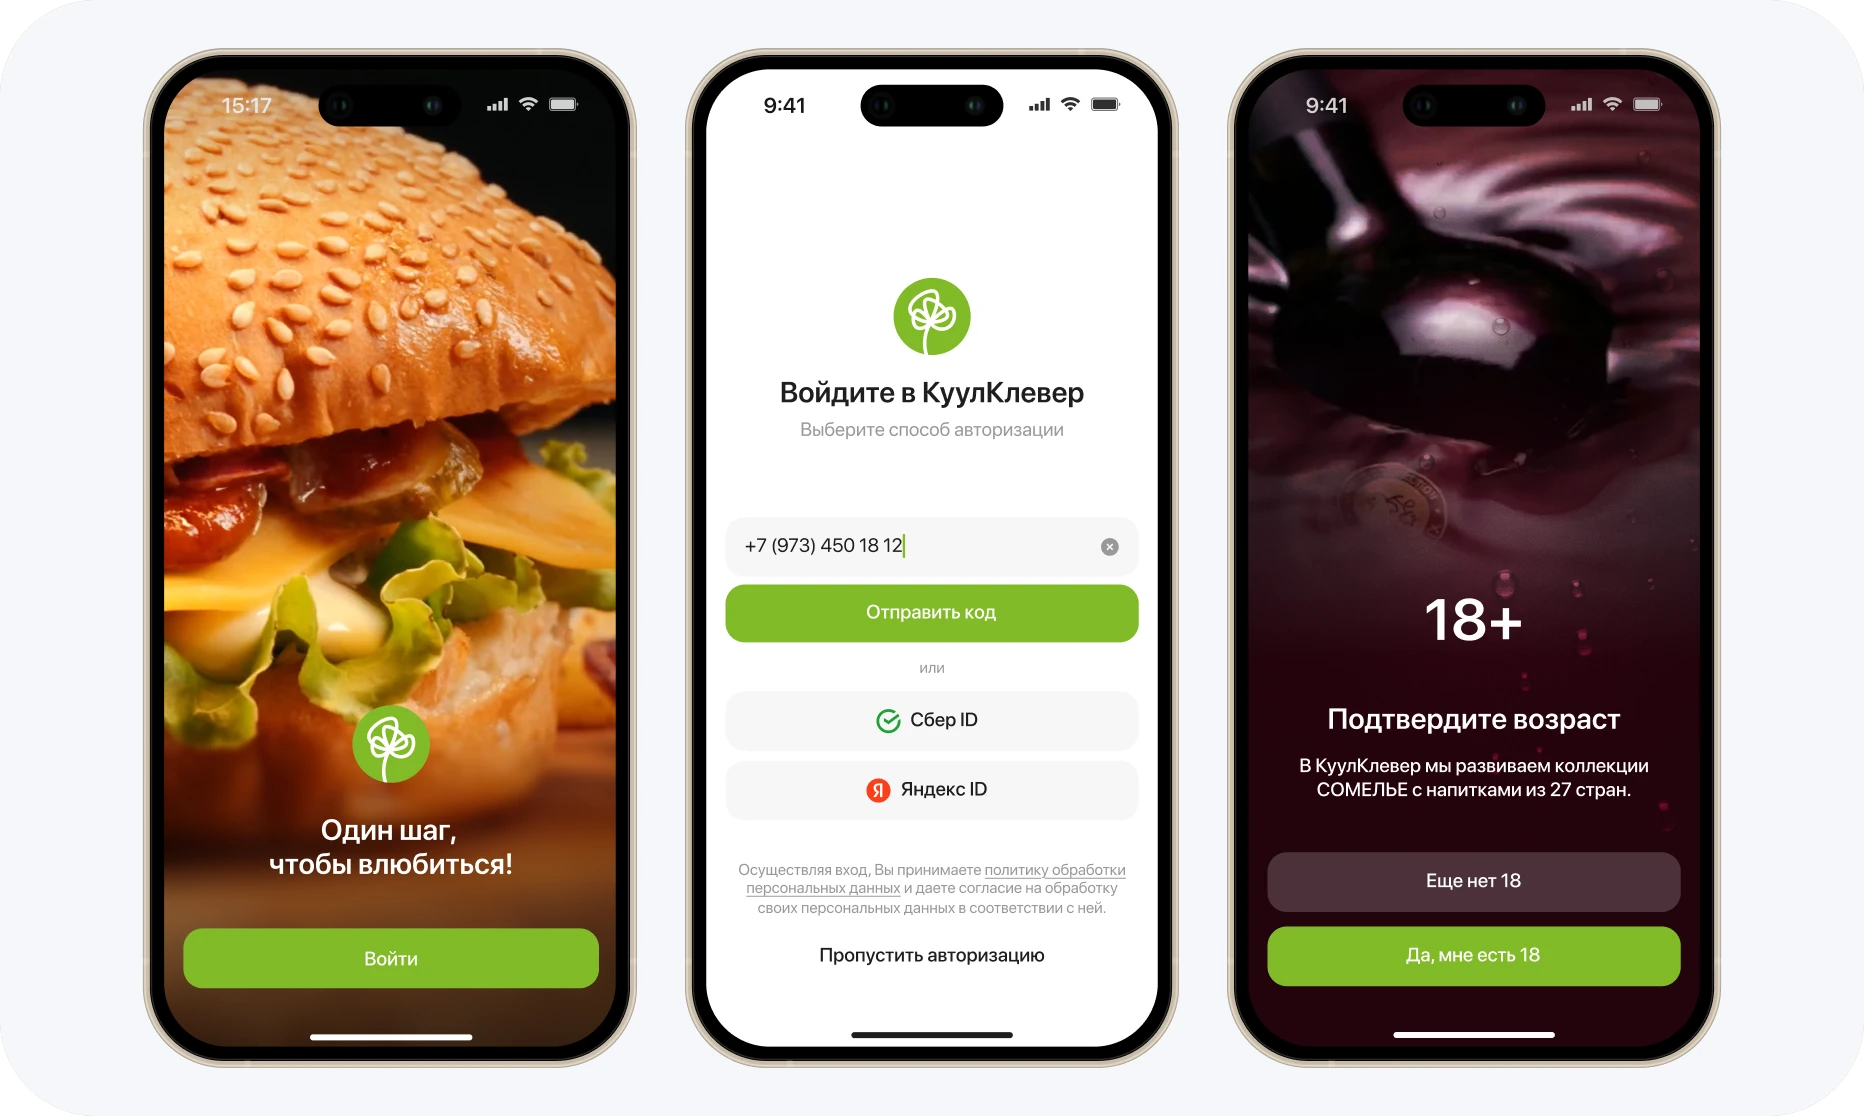
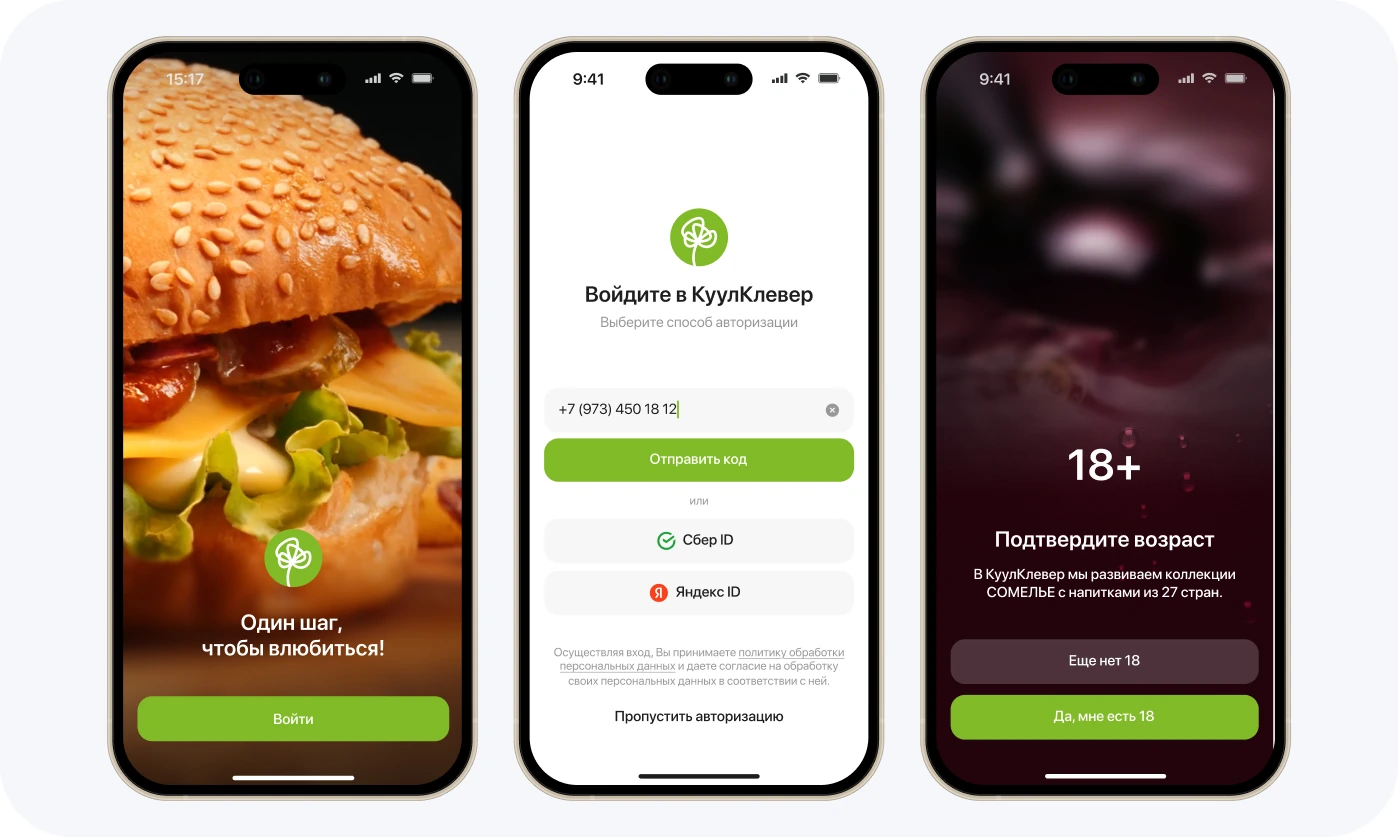
Онбординг: фото-заглушка на обложке, если видео не загрузилось
Claude-Session: https://claude.ai/code/session_01BbzCvaPYQ9pFtYCqfnGTSS

diff --git a/index.html b/index.html
@@ -621,9 +621,10 @@ picture{display:contents}
 /* анимации в кейсах: фото — заглушка, поверх неё подгружается анимация */
 .vshot{position:relative;container-type:inline-size}
 .vshot>picture{display:block}
-.vs{--u:calc(100cqw/932);position:absolute;width:calc(225.8*var(--u));height:calc(488.7*var(--u));top:calc(34.67*var(--u));border-radius:calc(34*var(--u));overflow:hidden;pointer-events:none;color:#fff;
+.vs{--u:calc(100cqw/932);position:absolute;width:calc(225.8*var(--u));height:calc(488.7*var(--u));top:calc(34.67*var(--u));border-radius:calc(34*var(--u));overflow:hidden;pointer-events:none;color:#fff;opacity:0;transition:opacity .4s ease;
   font-family:-apple-system,"SF Pro Display","Golos Text",system-ui,sans-serif;-webkit-font-smoothing:antialiased;isolation:isolate}
 .vs *{position:absolute;margin:0}
+.vs.is-live{opacity:1}
 .vs--welcome{left:calc(82.06*var(--u));background:#2a1a10}
 .vs--gate{left:calc(624.13*var(--u));background:#57081e}
 .vs__shade{left:0;top:0;width:100%;height:100%;background:linear-gradient(rgba(20,0,6,.35),rgba(20,0,6,.15) 45%,rgba(20,0,6,.5))}
@@ -1388,7 +1389,7 @@ picture{display:contents}
         <p class="case__lead">Как мы увеличили число пользователей, проходящих онбординг, а заодно повысили конверсию на пуши и обновили раздел уведомлений.</p>
       </div>
     </div>
-    <figure class="case__fig"><div class="vshot"><picture><source srcset="cases/onboarding/hero-dark.webp?v=2" media="(prefers-color-scheme: dark)"><img src="cases/onboarding/hero.webp?v=2" width="1864" height="1116" alt="Три экрана: приветствие «Один шаг, чтобы влюбиться!», вход в КуулКлевер по номеру, Сбер ID или Яндекс ID и экран подтверждения возраста 18+"></picture><div class="vs vs--welcome" aria-hidden="true"><video class="vs__bg" muted loop playsinline preload="none" poster="cases/onboarding/video/welcome.jpg" data-src="cases/onboarding/video/welcome.mp4"></video><span class="vs__top"></span><span class="vs__bottom"></span><span class="vs__logo"></span><p class="vs__t vs__title">Один шаг,<br>чтобы влюбиться!</p><span class="vs__btn" style="top:calc(429.5*var(--u))">Войти</span><span class="vs__status"><span class="vs__time">9:41</span><svg class="vs__icons" viewBox="0 0 38 7.4" fill="#fff"><rect x="0" y="5" width="1.6" height="2.4" rx=".4"/><rect x="2.5" y="3.6" width="1.6" height="3.8" rx=".4"/><rect x="5" y="2" width="1.6" height="5.4" rx=".4"/><rect x="7.5" y=".4" width="1.6" height="7" rx=".4"/><path d="M16.2 1.5a6.4 6.4 0 0 1 4.5 1.8l.9-.9a7.7 7.7 0 0 0-10.8 0l.9.9a6.4 6.4 0 0 1 4.5-1.8Zm0 2.4a4 4 0 0 1 2.8 1.1l.9-.9a5.3 5.3 0 0 0-7.4 0l.9.9a4 4 0 0 1 2.8-1.1Zm0 2.4c.4 0 .8.2 1.1.5l-1.1 1.1-1.1-1.1c.3-.3.7-.5 1.1-.5Z"/><rect x="24.6" y=".5" width="11.2" height="6.4" rx="1.8" fill="none" stroke="#fff" stroke-opacity=".45" stroke-width=".8"/><rect x="25.8" y="1.7" width="8.8" height="4" rx="1"/><path d="M36.6 2.6v2.2c.6-.2 1-.6 1-1.1s-.4-.9-1-1.1Z" fill-opacity=".45"/></svg></span><span class="vs__island"></span><span class="vs__home"></span></div><div class="vs vs--gate" aria-hidden="true"><video class="vs__sq" muted loop playsinline preload="none" poster="cases/onboarding/video/wine.jpg" data-src="cases/onboarding/video/wine.mp4"></video><span class="vs__fade"></span><span class="vs__shade"></span><p class="vs__t vs__age">18+</p><p class="vs__t vs__h">Подтвердите возраст</p><p class="vs__t vs__sub">В&nbsp;КуулКлевер мы развиваем коллекции СОМЕЛЬЕ с&nbsp;напитками из&nbsp;27&nbsp;стран.</p><span class="vs__btn vs__btn--ghost" style="top:calc(391.4*var(--u));left:calc(9.7*var(--u));width:calc(205.4*var(--u))">Еще нет 18</span><span class="vs__btn" style="top:calc(428.5*var(--u));left:calc(9.7*var(--u));width:calc(205.4*var(--u))">Да, мне есть 18</span><span class="vs__status"><span class="vs__time">9:41</span><svg class="vs__icons" viewBox="0 0 38 7.4" fill="#fff"><rect x="0" y="5" width="1.6" height="2.4" rx=".4"/><rect x="2.5" y="3.6" width="1.6" height="3.8" rx=".4"/><rect x="5" y="2" width="1.6" height="5.4" rx=".4"/><rect x="7.5" y=".4" width="1.6" height="7" rx=".4"/><path d="M16.2 1.5a6.4 6.4 0 0 1 4.5 1.8l.9-.9a7.7 7.7 0 0 0-10.8 0l.9.9a6.4 6.4 0 0 1 4.5-1.8Zm0 2.4a4 4 0 0 1 2.8 1.1l.9-.9a5.3 5.3 0 0 0-7.4 0l.9.9a4 4 0 0 1 2.8-1.1Zm0 2.4c.4 0 .8.2 1.1.5l-1.1 1.1-1.1-1.1c.3-.3.7-.5 1.1-.5Z"/><rect x="24.6" y=".5" width="11.2" height="6.4" rx="1.8" fill="none" stroke="#fff" stroke-opacity=".45" stroke-width=".8"/><rect x="25.8" y="1.7" width="8.8" height="4" rx="1"/><path d="M36.6 2.6v2.2c.6-.2 1-.6 1-1.1s-.4-.9-1-1.1Z" fill-opacity=".45"/></svg></span><span class="vs__island"></span><span class="vs__home"></span></div></div><figcaption>Основные решения</figcaption></figure>
+    <figure class="case__fig"><div class="vshot"><picture><source srcset="cases/onboarding/hero-dark.webp?v=3" media="(prefers-color-scheme: dark)"><img src="cases/onboarding/hero.webp?v=3" width="1398" height="837" alt="Три экрана: приветствие «Один шаг, чтобы влюбиться!», вход в КуулКлевер по номеру, Сбер ID или Яндекс ID и экран подтверждения возраста 18+"></picture><div class="vs vs--welcome" aria-hidden="true"><video class="vs__bg" muted loop playsinline preload="none" poster="cases/onboarding/video/welcome.jpg" data-src="cases/onboarding/video/welcome.mp4"></video><span class="vs__top"></span><span class="vs__bottom"></span><span class="vs__logo"></span><p class="vs__t vs__title">Один шаг,<br>чтобы влюбиться!</p><span class="vs__btn" style="top:calc(429.5*var(--u))">Войти</span><span class="vs__status"><span class="vs__time">9:41</span><svg class="vs__icons" viewBox="0 0 38 7.4" fill="#fff"><rect x="0" y="5" width="1.6" height="2.4" rx=".4"/><rect x="2.5" y="3.6" width="1.6" height="3.8" rx=".4"/><rect x="5" y="2" width="1.6" height="5.4" rx=".4"/><rect x="7.5" y=".4" width="1.6" height="7" rx=".4"/><path d="M16.2 1.5a6.4 6.4 0 0 1 4.5 1.8l.9-.9a7.7 7.7 0 0 0-10.8 0l.9.9a6.4 6.4 0 0 1 4.5-1.8Zm0 2.4a4 4 0 0 1 2.8 1.1l.9-.9a5.3 5.3 0 0 0-7.4 0l.9.9a4 4 0 0 1 2.8-1.1Zm0 2.4c.4 0 .8.2 1.1.5l-1.1 1.1-1.1-1.1c.3-.3.7-.5 1.1-.5Z"/><rect x="24.6" y=".5" width="11.2" height="6.4" rx="1.8" fill="none" stroke="#fff" stroke-opacity=".45" stroke-width=".8"/><rect x="25.8" y="1.7" width="8.8" height="4" rx="1"/><path d="M36.6 2.6v2.2c.6-.2 1-.6 1-1.1s-.4-.9-1-1.1Z" fill-opacity=".45"/></svg></span><span class="vs__island"></span><span class="vs__home"></span></div><div class="vs vs--gate" aria-hidden="true"><video class="vs__sq" muted loop playsinline preload="none" poster="cases/onboarding/video/wine.jpg" data-src="cases/onboarding/video/wine.mp4"></video><span class="vs__fade"></span><span class="vs__shade"></span><p class="vs__t vs__age">18+</p><p class="vs__t vs__h">Подтвердите возраст</p><p class="vs__t vs__sub">В&nbsp;КуулКлевер мы развиваем коллекции СОМЕЛЬЕ с&nbsp;напитками из&nbsp;27&nbsp;стран.</p><span class="vs__btn vs__btn--ghost" style="top:calc(391.4*var(--u));left:calc(9.7*var(--u));width:calc(205.4*var(--u))">Еще нет 18</span><span class="vs__btn" style="top:calc(428.5*var(--u));left:calc(9.7*var(--u));width:calc(205.4*var(--u))">Да, мне есть 18</span><span class="vs__status"><span class="vs__time">9:41</span><svg class="vs__icons" viewBox="0 0 38 7.4" fill="#fff"><rect x="0" y="5" width="1.6" height="2.4" rx=".4"/><rect x="2.5" y="3.6" width="1.6" height="3.8" rx=".4"/><rect x="5" y="2" width="1.6" height="5.4" rx=".4"/><rect x="7.5" y=".4" width="1.6" height="7" rx=".4"/><path d="M16.2 1.5a6.4 6.4 0 0 1 4.5 1.8l.9-.9a7.7 7.7 0 0 0-10.8 0l.9.9a6.4 6.4 0 0 1 4.5-1.8Zm0 2.4a4 4 0 0 1 2.8 1.1l.9-.9a5.3 5.3 0 0 0-7.4 0l.9.9a4 4 0 0 1 2.8-1.1Zm0 2.4c.4 0 .8.2 1.1.5l-1.1 1.1-1.1-1.1c.3-.3.7-.5 1.1-.5Z"/><rect x="24.6" y=".5" width="11.2" height="6.4" rx="1.8" fill="none" stroke="#fff" stroke-opacity=".45" stroke-width=".8"/><rect x="25.8" y="1.7" width="8.8" height="4" rx="1"/><path d="M36.6 2.6v2.2c.6-.2 1-.6 1-1.1s-.4-.9-1-1.1Z" fill-opacity=".45"/></svg></span><span class="vs__island"></span><span class="vs__home"></span></div></div><figcaption>Основные решения</figcaption></figure>
   </div>
 
   <div class="case__sec" id="ob-context">
@@ -1874,7 +1875,7 @@ document.querySelectorAll('.works').forEach(function(el,n){
     if(Math.abs(dx)>50&&Math.abs(dx)>Math.abs(dy)) show(dx<0?i+1:i-1);
   });
 })();
-/* Видео внутри макетов (HTML-экраны поверх картинки): грузятся у экрана, играют, пока видны */
+/* Видео внутри макетов (HTML-экраны поверх фото-заглушки): грузятся у экрана, играют, пока видны; экран появляется, только когда видео заиграло */
 (function(){
   var vids=[].slice.call(document.querySelectorAll('.vs video[data-src]'));
   if(!vids.length||!('IntersectionObserver' in window)) return;
@@ -1882,7 +1883,7 @@ document.querySelectorAll('.works').forEach(function(el,n){
   if(navigator.connection&&navigator.connection.saveData) return;
   var io=new IntersectionObserver(function(es){ es.forEach(function(e){ var v=e.target;
     v._in=e.isIntersecting; if(e.isIntersecting){ if(!v.getAttribute('src')) v.src=v.dataset.src; v.play().catch(function(){}); } else v.pause(); }); },{rootMargin:'200px 0px'});
-  vids.forEach(function(v){ io.observe(v); });
+  vids.forEach(function(v){ io.observe(v); v.addEventListener('playing',function(){ v.closest('.vs').classList.add('is-live'); }); });  /* пока видео не заиграло или не загрузилось — видна фото-заглушка */
   document.addEventListener('visibilitychange',function(){ vids.forEach(function(v){ if(document.hidden) v.pause(); else if(v._in) v.play().catch(function(){}); }); });
 })();
 /* Анимации в кейсах: грузятся, когда блок подходит к экрану; пока анимация не заиграла или если не загрузилась — видно фото */
